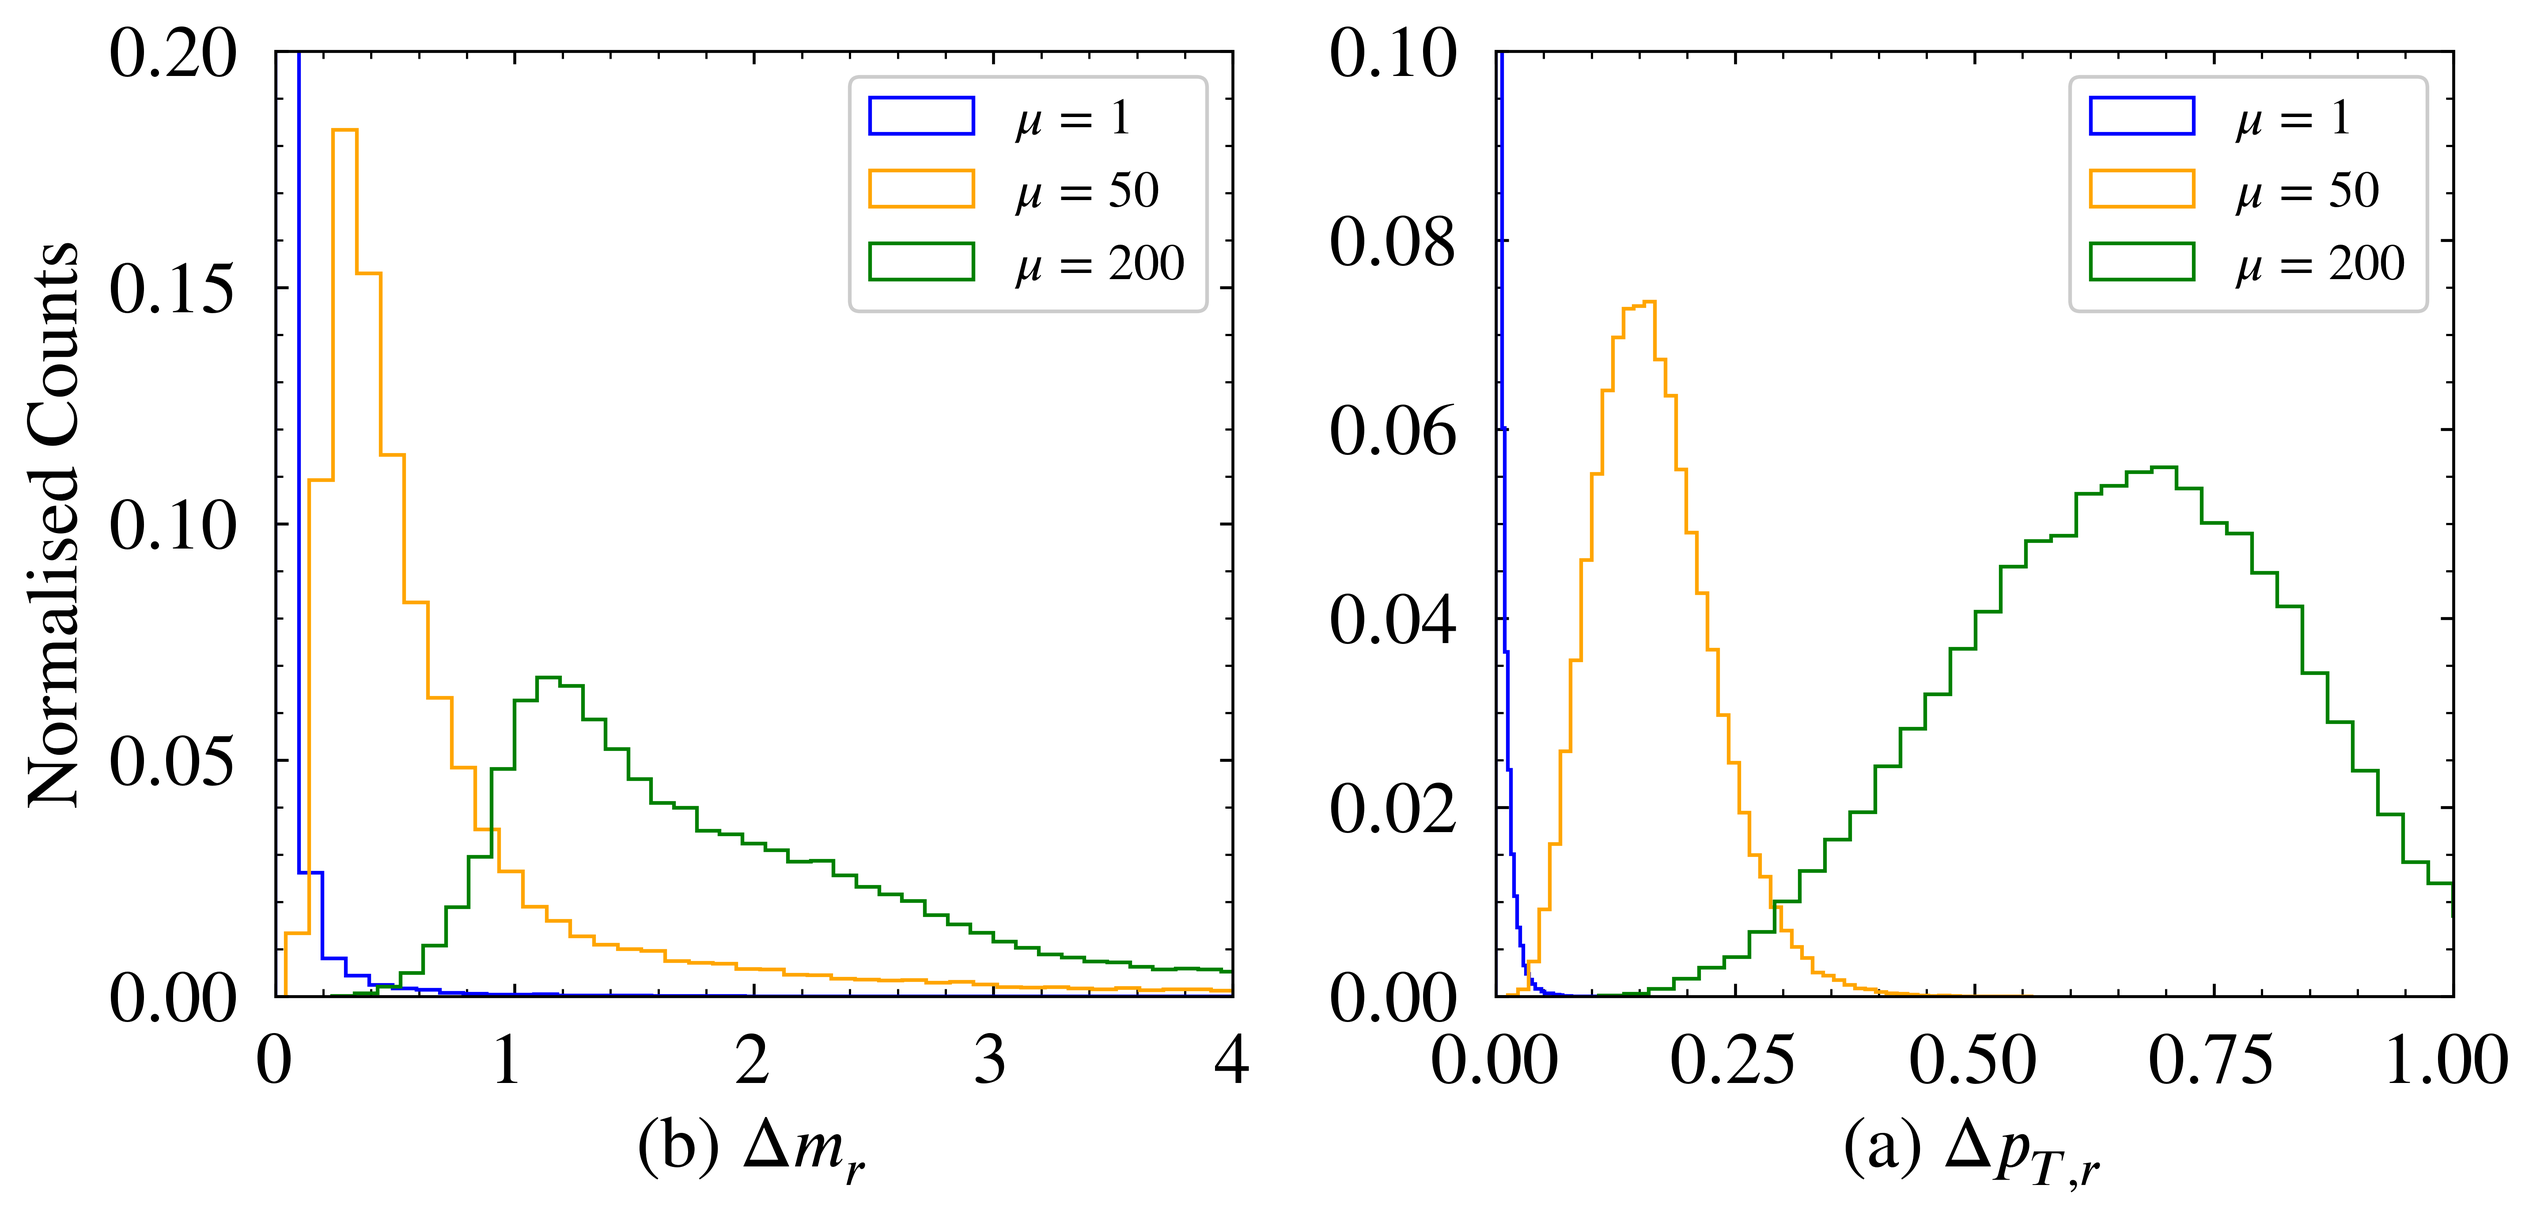
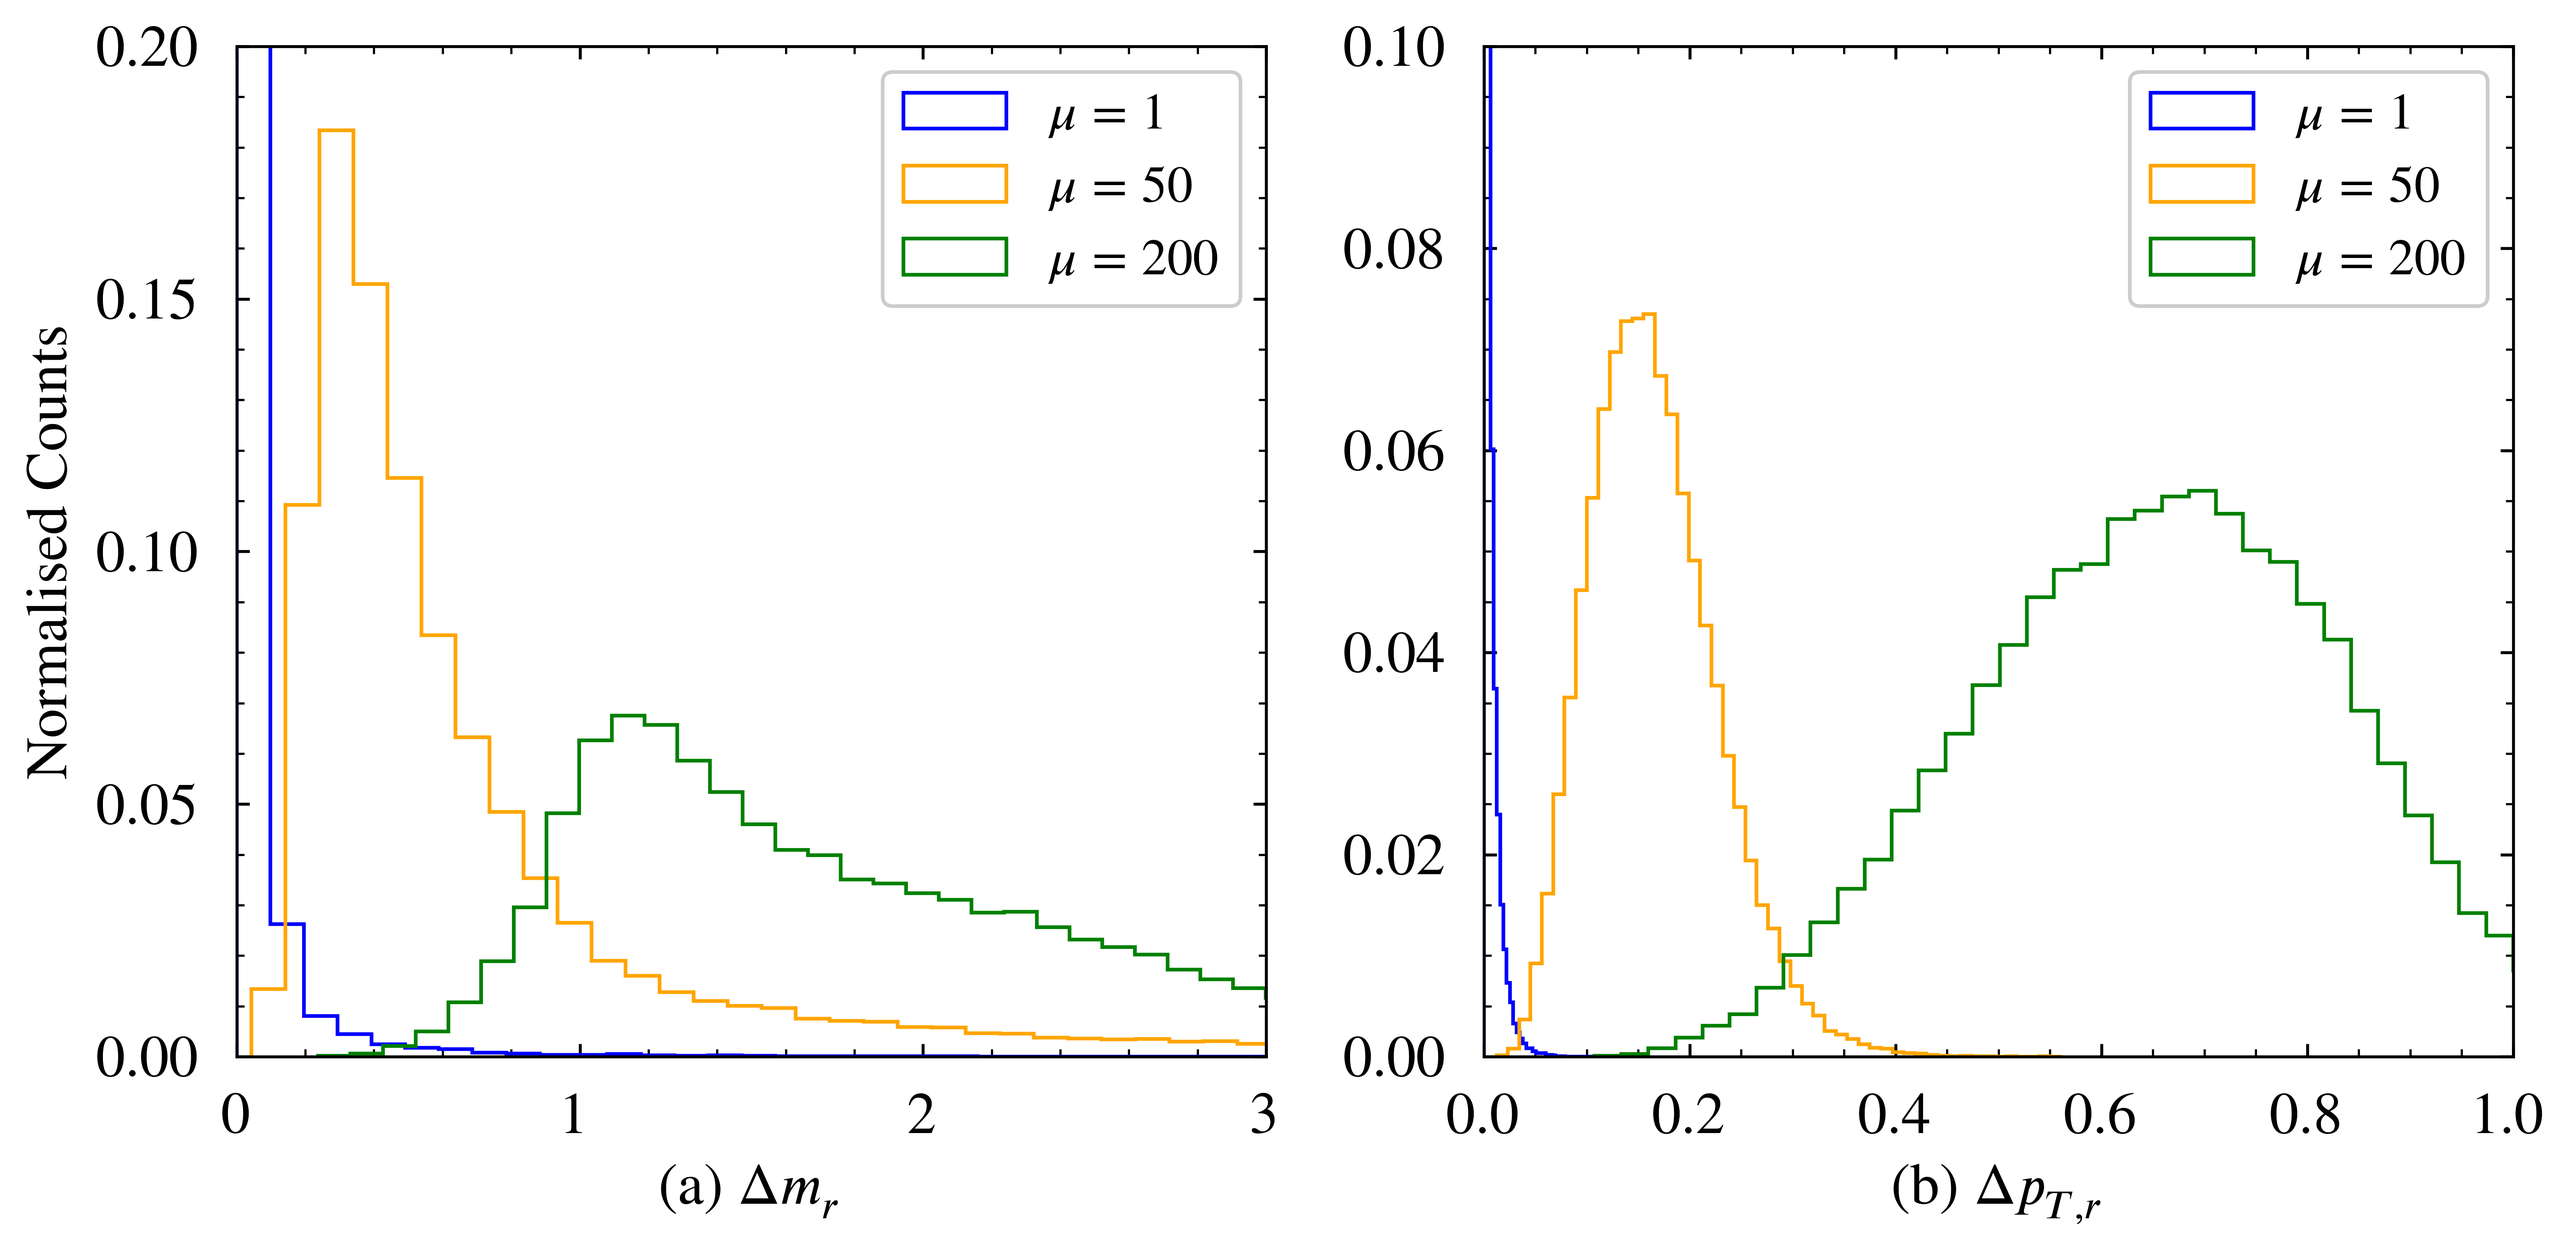
reduce font size; fix y ticks on mass, fix label

diff --git a/DDPMLHC/main_cx2.py b/DDPMLHC/main_cx2.py
@@ -192,13 +192,14 @@ for idx,data in enumerate(data_array):
     # std_energy_diffs.append(std_energy_diff)
     # mean_mass_diffs.append(mean_mass_diff)
     # std_mass_diffs.append(std_mass_diff)
-axs[1].set_xlabel(r"(a) $\Delta p_{T,r}$")
-axs[0].set_xlabel(r"(b) $\Delta m_r$")
-axs[0].set_xlim([0,4])
+axs[1].set_xlabel(r"(b) $\Delta p_{T,r}$")
+axs[0].set_xlabel(r"(a) $\Delta m_r$")
+axs[0].set_xlim([0,3])
 axs[1].set_xlim([0,1])
 axs[0].set_ylim([0,np.round(max_ym*10) / 10])
 axs[1].set_ylim([0,np.round(max_ye*10) / 10])
 axs[1].set_yticks([0,0.02,0.04,0.06,0.08,0.10])
+axs[0].set_yticks([0,0.05, 0.10, 0.15, 0.20])
 plt.tight_layout()
 plt.savefig(f"{CWD}/data/plots/hist_energymasscounts.pdf", format="pdf", bbox_inches="tight")
 plt.savefig(f"{CWD}/data/plots/hist_energymasscounts.png", format="png", dpi=600, bbox_inches="tight")

diff --git a/DDPMLHC/config.py b/DDPMLHC/config.py
@@ -22,14 +22,14 @@ TTBAR_NUM = 70903
 MAX_DATA_ROWS = None
 
 BMAP_SQUARE_SIDE_LENGTH = 64
-label_fontsize = 20
-tick_fontsize = 20
+label_fontsize = 16
+tick_fontsize = 16
 
     # 'font.family' : r'Computer Modern Roman',
 MPL_GLOBAL_PARAMS = {
     'text.usetex' : True, # use latex text
     'text.latex.preamble' : r'\usepackage{stix}', # latex packages
-    'font.size' :20,
+    'font.size' :16,
     "font.family": "STIXGeneral",
     'figure.dpi' : 600,
     'figure.figsize' : (8, 6),
